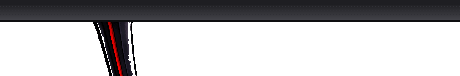
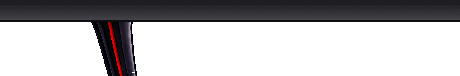
Gaúcho GTI: coluna da porta inteira (moldura e acabamento não viram vidro) (v0.25.2)
Claude-Session: https://claude.ai/code/session_01MLD9VR7gkmY4w6a9beZcp6

diff --git a/tools/ref/gol_cockpit2.py b/tools/ref/gol_cockpit2.py
@@ -95,6 +95,21 @@ def main():
     # faixa lilás (o vidro da porta visto de lado) acima da borracha da soleira: também é janela
     lil = (xx < 320) & (yy > 360) & (yy < 505 - 0.27 * xx) & (rgb[..., 2] > rgb[..., 0] + 4) & (lum > 88) & ~red
     sky |= lil
+    # coluna da porta: a moldura cinza-azulada entre a borracha preta (à esquerda) e o friso
+    # vermelho é peça do carro, não paisagem (o azulado dela enganava a detecção do vidro)
+    for y in range(0, 330):
+        rx = np.nonzero(red[y, 120:300])[0]
+        if not len(rx):
+            continue
+        r0 = 120 + rx[0]
+        dk = np.nonzero(lum[y, 100:r0] < 45)[0]
+        l0 = 100 + dk[0] if len(dk) else r0 - 40
+        sky[y, l0:r0 + 1] = False
+        # e o acabamento cinza à direita do friso, até a borracha preta do para-brisa
+        r1 = 120 + rx[-1]
+        dk2 = np.nonzero(lum[y, r1 + 6:r1 + 140] < 40)[0]
+        if len(dk2):
+            sky[y, r1:r1 + 6 + dk2[-1] + 1] = False if dk2[-1] < 110 else sky[y, r1:r1 + 6 + dk2[-1] + 1]
     inv = (~sky & win).astype(np.uint8)
     n2, lab2, st2, _ = cv2.connectedComponentsWithStats(inv, 4)
     for i in range(1, n2):
